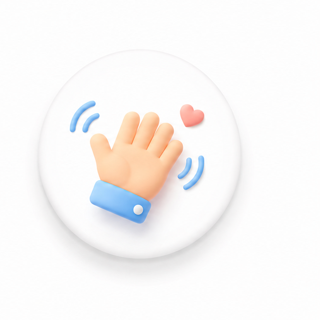
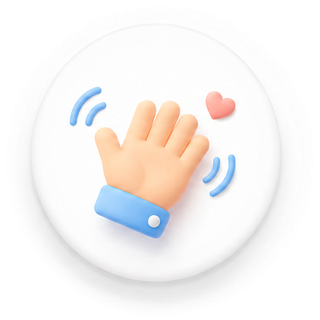
fix: update homepage and meal flow

diff --git a/pages/recipe-random/index.js b/pages/recipe-random/index.js
@@ -12,7 +12,8 @@ Page({
     mealTypesText: '',
     image: '/assets/recipes/default-meal.png',
     isDrawing: false,
-    rollingName: '宝宝餐'
+    rollingName: '宝宝餐',
+    emptyText: ''
   },
 
   onLoad() {
@@ -37,15 +38,15 @@ Page({
     const result = recipeUtil.pickRandomMeal();
     this.clearDrawTimers();
 
-    if (result.warning || !result.recipe) {
-      this.setData({
-        ...result,
+    if (result.warning) {
+      this.setData(Object.assign({}, result, {
         recipe: null,
         ingredientChips: [],
         mealTypesText: '',
         isDrawing: false,
-        rollingName: '宝宝餐'
-      });
+        rollingName: '宝宝餐',
+        emptyText: result.warning
+      }));
       return;
     }
 
@@ -53,7 +54,12 @@ Page({
       .filter((item) => item.suitableForRandomMeal)
       .map((item) => item.name)
       .slice(0, 16);
-    const names = rollingNames.length ? rollingNames : [result.recipe.name];
+    const names = rollingNames.length ? rollingNames : [
+      '番茄牛肉软饭',
+      '南瓜鸡肉粥',
+      '虾仁青菜面',
+      '山药蒸蛋羹'
+    ];
     let cursor = 0;
 
     this.pendingResult = result;
@@ -66,7 +72,8 @@ Page({
       recipe: null,
       ingredientChips: [],
       mealTypesText: '',
-      rollingName: names[0]
+      rollingName: names[0],
+      emptyText: ''
     });
 
     this.drawInterval = setInterval(() => {
@@ -84,16 +91,30 @@ Page({
   },
 
   applyResult(result) {
+    if (!result || !result.recipe) {
+      this.setData({
+        recipe: null,
+        ingredients: '',
+        ingredientChips: [],
+        mealTypesText: '',
+        image: '/assets/recipes/default-meal.png',
+        isDrawing: false,
+        rollingName: '宝宝餐',
+        emptyText: '暂时没有匹配到合适的一餐，可以调整宝宝档案里的过敏或不吃食材后再试。'
+      });
+      return;
+    }
+
     const ingredientChips = result.recipe ? (result.recipe.ingredients || []).slice(0, 5).map((item) => `${item.name} ${item.amount}${item.unit}`) : [];
-    this.setData({
-      ...result,
+    this.setData(Object.assign({}, result, {
       ingredients: result.recipe ? recipeUtil.summarizeIngredients(result.recipe) : '',
       ingredientChips,
       mealTypesText: result.recipe ? (result.recipe.mealTypes || []).join(' / ') : '',
       image: '/assets/recipes/default-meal.png',
       isDrawing: false,
-      rollingName: result.recipe ? result.recipe.name : '宝宝餐'
-    });
+      rollingName: result.recipe ? result.recipe.name : '宝宝餐',
+      emptyText: ''
+    }));
   },
 
   clearDrawTimers() {
@@ -124,14 +145,18 @@ Page({
       '',
       `食材：${recipeUtil.summarizeIngredients(item)}`,
       '',
-      '制作步骤：',
-      ...(item.steps || []).map((step, index) => `${index + 1}. ${step}`),
+      '制作步骤：'
+    ]
+      .concat((item.steps || []).map((step, index) => `${index + 1}. ${step}`))
+      .concat([
+        '',
+        '营养亮点：'
+      ])
+      .concat(item.nutritionHighlights || [])
+      .concat([
       '',
-      '营养亮点：',
-      ...(item.nutritionHighlights || []),
-      '',
-      '本食谱为家庭饮食参考，不替代医生或营养师建议。'
-    ];
+        '本食谱为家庭饮食参考，不替代医生或营养师建议。'
+      ]);
     wx.setClipboardData({
       data: lines.join('\n'),
       success() {

diff --git a/utils/recipe.js b/utils/recipe.js
@@ -72,12 +72,11 @@ function getProfile() {
 function saveProfile(profile) {
   const now = new Date().toISOString();
   const existing = wx.getStorageSync('babyProfile') || {};
-  const next = {
+  const next = Object.assign({}, profile, {
     babyId: existing.babyId || 'baby_001',
     createdAt: existing.createdAt || now,
-    ...profile,
     updatedAt: now
-  };
+  });
   wx.setStorageSync('babyProfile', next);
   return next;
 }
@@ -143,15 +142,18 @@ function recipeConflicts(recipe, blockedTags) {
     [recipe.proteinType, recipe.proteinCategory, recipe.mainStaple]
   ];
 
-  return fields.flat().some((rawTag) => {
-    const tag = normalizeTag(rawTag);
-    if (blockedTags.has(tag)) return true;
-    if (tag === '鱼类' && blockedTags.has('鱼类')) return true;
-    if (tag === '虾' && blockedTags.has('虾')) return true;
-    if (tag === '大豆' && blockedTags.has('大豆')) return true;
-    if (tag === '小麦' && blockedTags.has('小麦')) return true;
-    return false;
-  });
+  for (let i = 0; i < fields.length; i += 1) {
+    const group = fields[i];
+    for (let j = 0; j < group.length; j += 1) {
+      const tag = normalizeTag(group[j]);
+      if (blockedTags.has(tag)) return true;
+      if (tag === '鱼类' && blockedTags.has('鱼类')) return true;
+      if (tag === '虾' && blockedTags.has('虾')) return true;
+      if (tag === '大豆' && blockedTags.has('大豆')) return true;
+      if (tag === '小麦' && blockedTags.has('小麦')) return true;
+    }
+  }
+  return false;
 }
 
 function getAvailableRecipes(profile) {
@@ -243,11 +245,10 @@ function remember(recipe, context) {
 function generateWeeklyPlan(profile = getProfile()) {
   const availability = getAvailableRecipes(profile);
   if (availability.warning) {
-    return {
-      ...availability,
+    return Object.assign({}, availability, {
       profile,
       days: []
-    };
+    });
   }
 
   const breakfastPool = availability.recipes.filter((recipe) => hasMeal(recipe, BREAKFAST));
@@ -286,32 +287,29 @@ function generateWeeklyPlan(profile = getProfile()) {
     };
   });
 
-  return {
-    ...availability,
+  return Object.assign({}, availability, {
     profile,
     days
-  };
+  });
 }
 
 function pickRandomMeal(profile = getProfile()) {
   const availability = getAvailableRecipes(profile);
   if (availability.warning) {
-    return {
-      ...availability,
+    return Object.assign({}, availability, {
       profile,
       recipe: null
-    };
+    });
   }
 
   const mealPool = availability.recipes.filter((recipe) => {
     return recipe.suitableForRandomMeal && (hasMeal(recipe, LUNCH) || hasMeal(recipe, DINNER));
   });
   const recipe = mealPool[Math.floor(Math.random() * mealPool.length)] || null;
-  return {
-    ...availability,
+  return Object.assign({}, availability, {
     profile,
     recipe
-  };
+  });
 }
 
 function findRecipe(recipeId) {

diff --git a/pages/recipe-detail/index.js b/pages/recipe-detail/index.js
@@ -11,10 +11,9 @@ Page({
     const item = recipeUtil.findRecipe(query.id);
     if (!item) return;
     this.setData({
-      recipe: {
-        ...item,
+      recipe: Object.assign({}, item, {
         mealTypesText: (item.mealTypes || []).join(' / ')
-      },
+      }),
       ingredientChips: (item.ingredients || []).map((ingredient) => `${ingredient.name} ${ingredient.amount}${ingredient.unit}`),
       image: '/assets/recipes/default-meal.png'
     });
@@ -39,17 +38,23 @@ Page({
       '',
       `食材：${recipeUtil.summarizeIngredients(item)}`,
       '',
-      '制作步骤：',
-      ...(item.steps || []).map((step, index) => `${index + 1}. ${step}`),
+      '制作步骤：'
+    ]
+      .concat((item.steps || []).map((step, index) => `${index + 1}. ${step}`))
+      .concat([
+        '',
+        '营养亮点：'
+      ])
+      .concat(item.nutritionHighlights || [])
+      .concat([
       '',
-      '营养亮点：',
-      ...(item.nutritionHighlights || []),
-      '',
-      '注意事项：',
-      ...(item.cautions || []),
-      '',
-      '本食谱为家庭饮食参考，不替代医生或营养师建议。'
-    ];
+        '注意事项：'
+      ])
+      .concat(item.cautions || [])
+      .concat([
+        '',
+        '本食谱为家庭饮食参考，不替代医生或营养师建议。'
+      ]);
     wx.setClipboardData({
       data: lines.join('\n'),
       success() {

diff --git a/pages/recipe-weekly/index.js b/pages/recipe-weekly/index.js
@@ -21,18 +21,16 @@ function buildDisplayDays(days) {
   return (days || []).map((day, index) => {
     const date = new Date(monday);
     date.setDate(monday.getDate() + index);
-    return {
-      ...day,
+    return Object.assign({}, day, {
       dateText: formatMonthDay(date),
       accent: DAY_COLORS[index % DAY_COLORS.length],
-      meals: (day.meals || []).map((meal) => ({
-        ...meal,
+      meals: (day.meals || []).map((meal) => Object.assign({}, meal, {
         id: meal.recipe ? meal.recipe.id : '',
         image: DEFAULT_MEAL_IMAGE,
         name: meal.recipe ? meal.recipe.name : '暂无食谱',
         desc: meal.recipe ? `${meal.recipe.texture} · ${meal.recipe.mainStaple}` : ''
       }))
-    };
+    });
   });
 }
 
@@ -63,10 +61,9 @@ Page({
   generate() {
     const plan = recipe.generateWeeklyPlan();
     wx.setStorageSync('latestWeeklyPlan', plan);
-    this.setData({
-      ...plan,
+    this.setData(Object.assign({}, plan, {
       displayDays: buildDisplayDays(plan.days)
-    });
+    }));
   },
 
   goDetail(event) {
@@ -82,7 +79,7 @@ Page({
     this.data.days.forEach((day) => {
       lines.push(day.dayName);
       day.meals.forEach((meal) => {
-        lines.push(`${meal.mealType}：${meal.recipe.name}`);
+        lines.push(`${meal.mealType}：${meal.recipe ? meal.recipe.name : '暂无食谱'}`);
       });
       lines.push('');
     });

diff --git a/pages/recipe-profile/index.js b/pages/recipe-profile/index.js
@@ -43,8 +43,7 @@ Page({
 
   markOptions(options, selectedTags) {
     const selected = new Set((selectedTags || []).map((item) => item.standardTag));
-    return options.map((item) => ({
-      ...item,
+    return options.map((item) => Object.assign({}, item, {
       checked: selected.has(item.standardTag)
     }));
   },

diff --git a/pages/supervise/assets.js b/pages/supervise/assets.js
@@ -1,6 +1,7 @@
 const BASE = 'https://sg.gouqii.com/guai-guai-chi-fan/assets/miniprogram-hq-20260604';
 
-function candidates(...paths) {
+function candidates() {
+  const paths = Array.prototype.slice.call(arguments);
   return paths.map((path) => `${BASE}${path}`);
 }
 